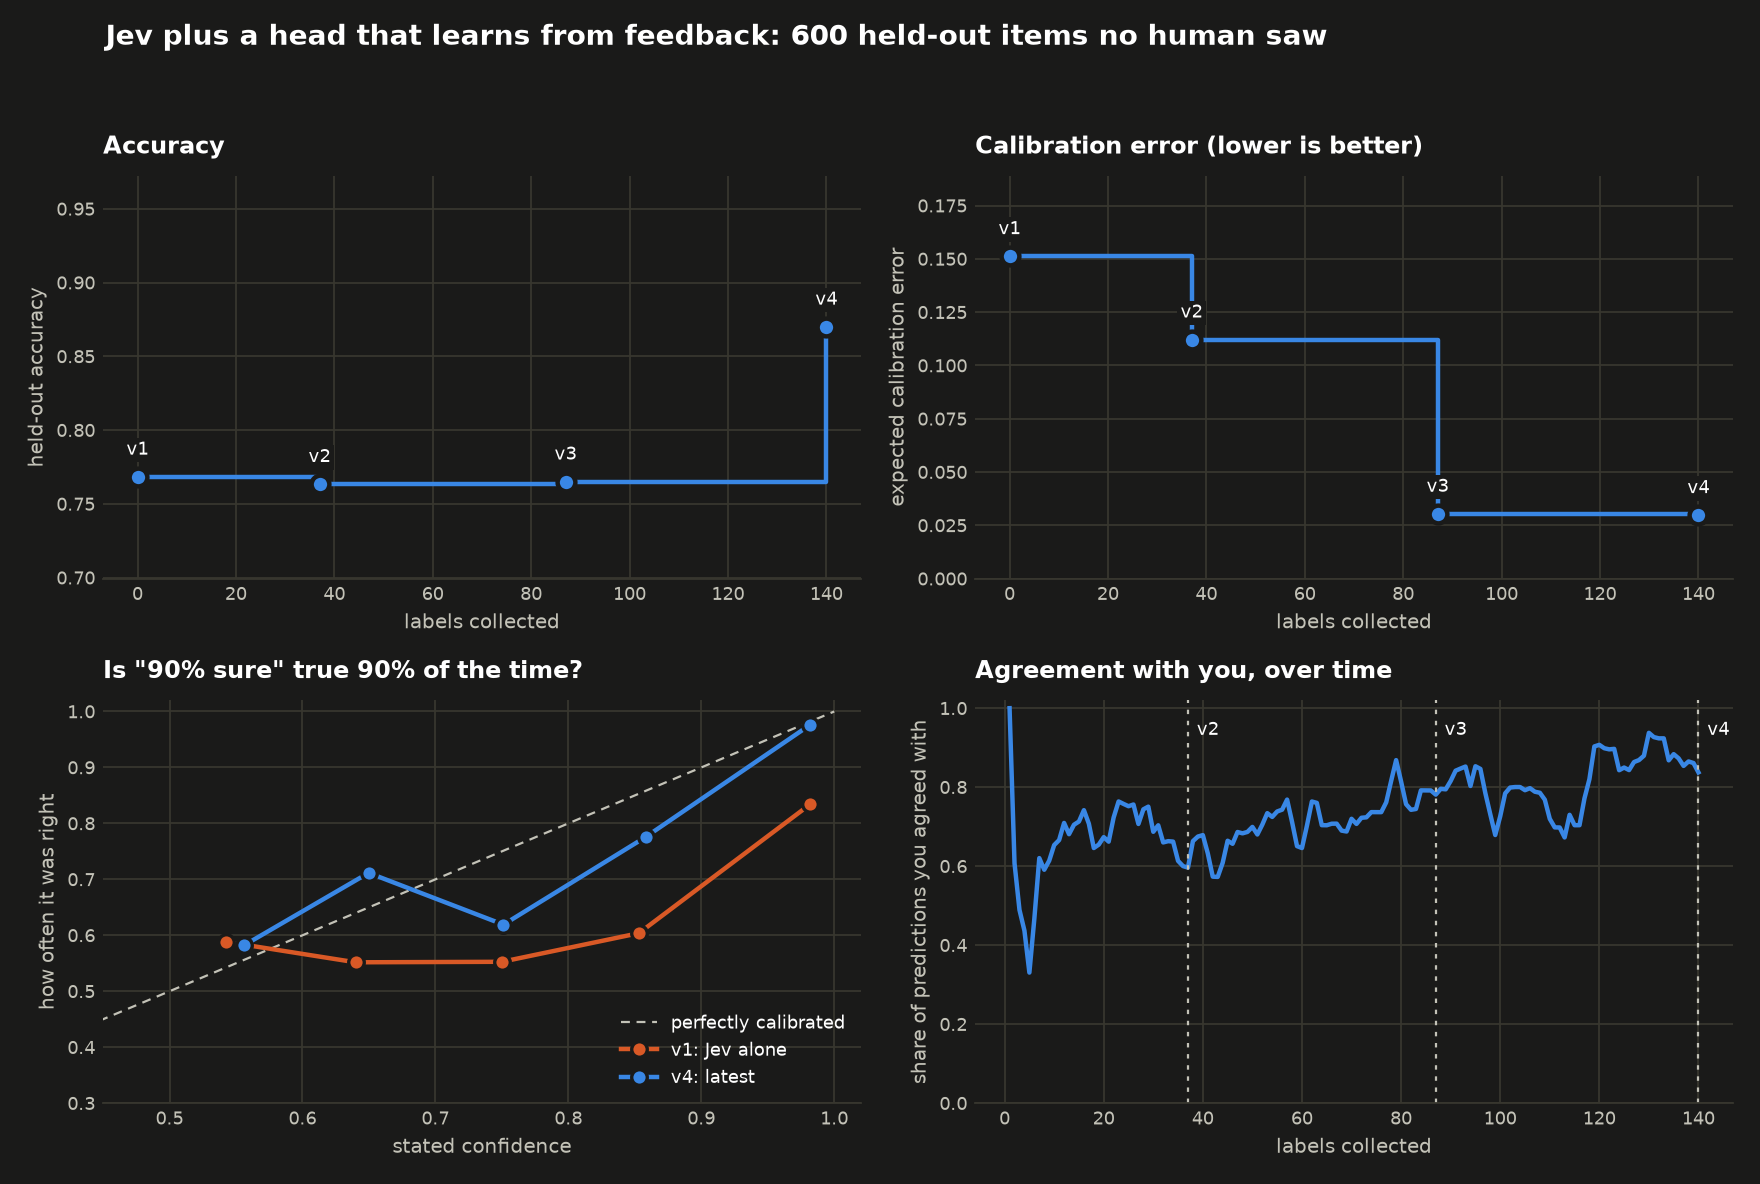
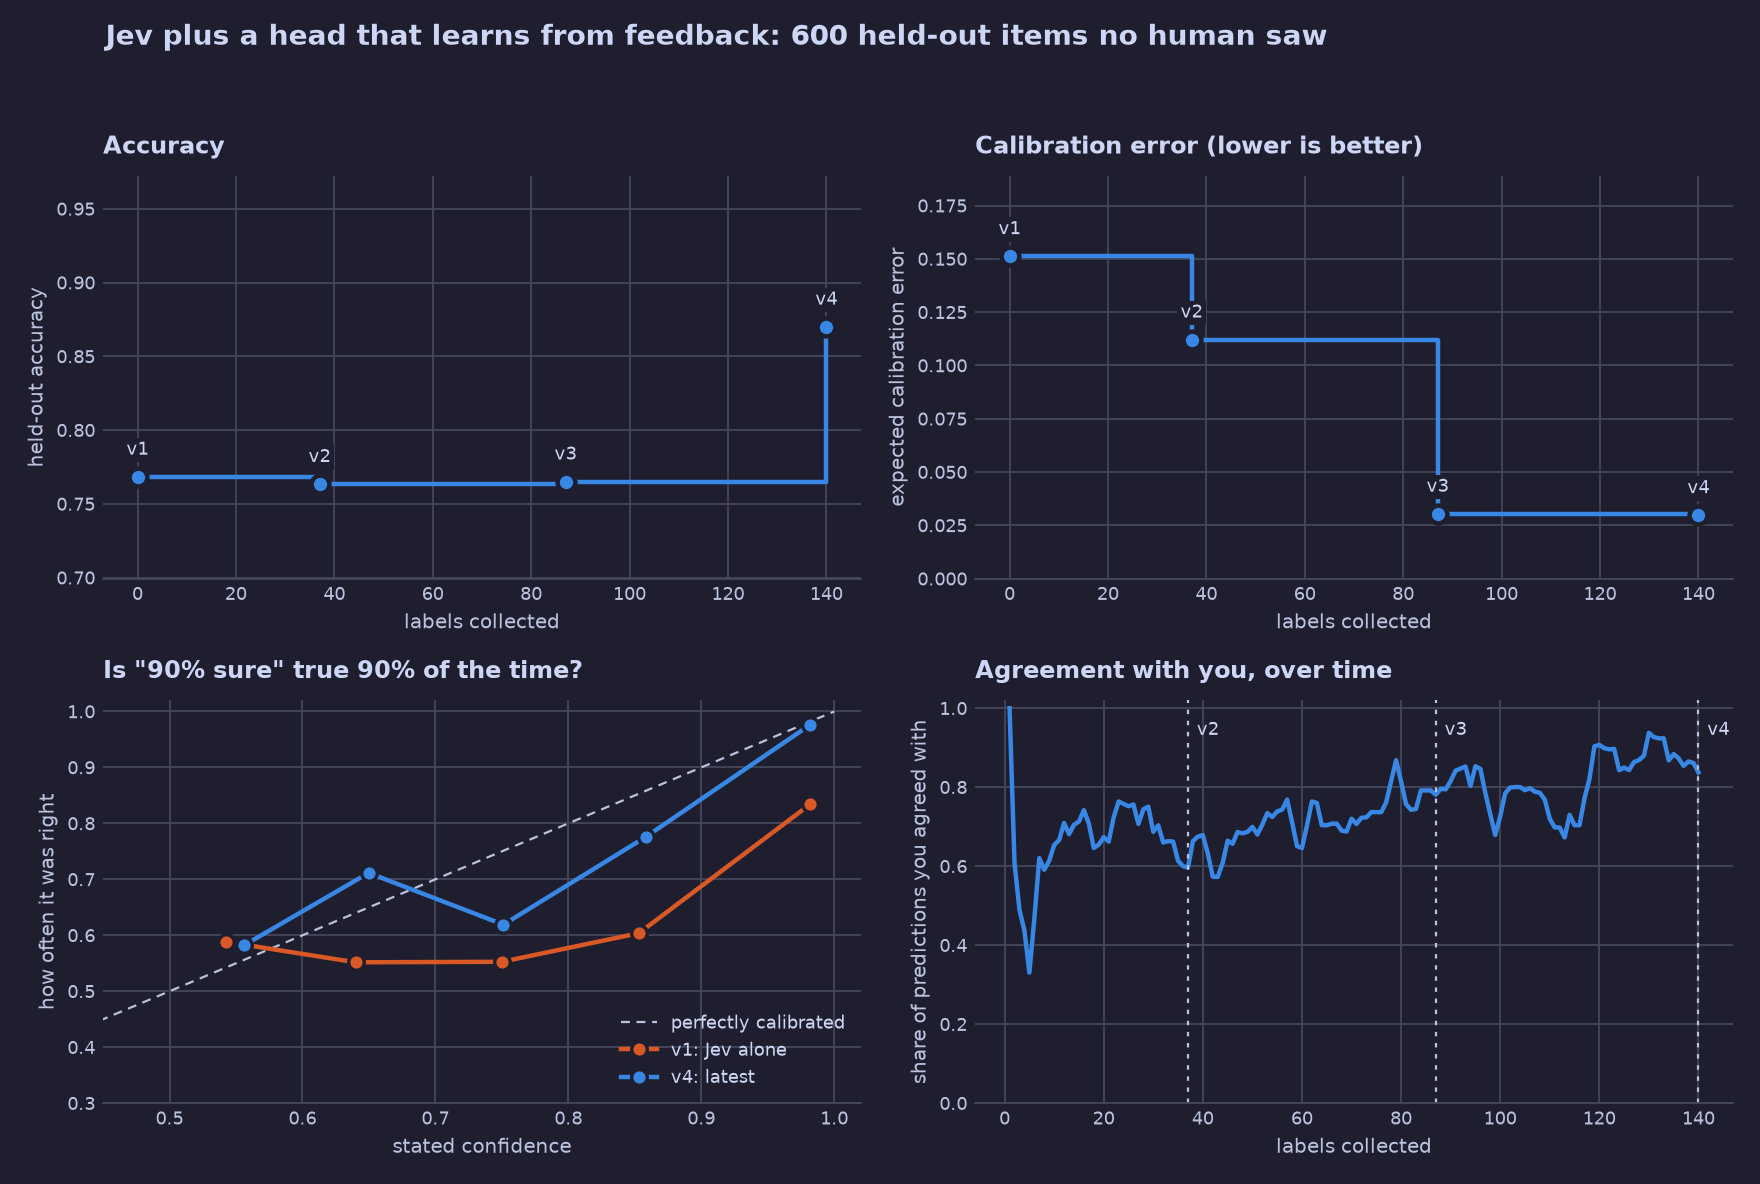
fix: one palette for the chart and the diagrams
The chart's dark surface was a warm black (#1a1a19) while the d2 diagrams use
a cool one, so the README mixed two palettes. The chart now takes its canvas
and ink from d2's own themes, read out of the rendered SVG: #FFFFFF / #0A0F25
for light and Dark Mauve's #1E1E2E / #CDD6F4 for dark.

The series colours are unchanged and were re-validated against the new
canvases; both pairs pass every check, and the light pair now clears 3:1
contrast where it previously only warned against the off-white.

A spec reads the canvas values back out of images/flywheel.svg and asserts the
themes match, so changing a diagram theme fails the suite instead of quietly
leaving the README two-toned.

diff --git a/jev_flywheel/charts.py b/jev_flywheel/charts.py
@@ -26,10 +26,14 @@ from jev_flywheel.workspace import Workspace
 class Theme(NamedTuple):
     """Surface, ink and series colours for one colour scheme.
 
-    Both schemes are *selected*, not derived: the dark series colours are the same two hues
-    re-stepped for a dark surface, and both sets were checked for colour-vision separation and
-    contrast against the surface they are drawn on. Flipping a light palette to dark by
-    inverting it is what produces unreadable charts.
+    Surfaces and ink match the d2 diagrams exactly, so the README does not mix a warm black
+    chart with cool black diagrams: these are d2's own light canvas and its Dark Mauve
+    (Catppuccin Mocha) canvas, read out of the rendered SVGs.
+
+    The series colours are *selected*, not derived: the dark pair is the same two hues
+    re-stepped for a dark surface, and both pairs were checked for colour-vision separation and
+    for contrast against the exact canvas they are drawn on. Inverting a light palette is what
+    produces unreadable dark charts.
     """
 
     surface: str
@@ -40,9 +44,10 @@ class Theme(NamedTuple):
     orange: str     # categorical slot 2: Jev's own answer, the baseline
 
 
-LIGHT = Theme(surface="#fcfcfb", ink="#0b0b0b", ink_secondary="#52514e", grid="#e6e5e1",
+# Canvas and ink are d2's, so the chart and the diagrams sit in the same palette.
+LIGHT = Theme(surface="#FFFFFF", ink="#0A0F25", ink_secondary="#676C7E", grid="#DEE1EB",
               blue="#2a78d6", orange="#eb6834")
-DARK = Theme(surface="#1a1a19", ink="#ffffff", ink_secondary="#c3c2b7", grid="#38372f",
+DARK = Theme(surface="#1E1E2E", ink="#CDD6F4", ink_secondary="#BAC2DE", grid="#45475A",
              blue="#3987e5", orange="#d95926")
 
 

diff --git a/tests/recording_test.py b/tests/recording_test.py
@@ -184,3 +184,22 @@ def test_a_caller_can_ask_for_one_scheme_only(session, fixtures, tmp_path):
     light = save_chart(replayed, SCORE, tmp_path / "solo.png", both_schemes=False)
 
     assert light.exists() and not dark_path(light).exists()
+
+
+def test_the_chart_and_the_diagrams_share_one_palette():
+    """A warm-black chart beside cool-black diagrams looks like a mistake, because it is one.
+
+    The canvases and ink here are read from d2's own themes, so this pins them together: if a
+    diagram theme changes, this fails rather than the README quietly going two-toned.
+    """
+    from pathlib import Path
+
+    from jev_flywheel.charts import DARK, LIGHT
+
+    svg = (Path(__file__).resolve().parents[1] / "images" / "flywheel.svg").read_text()
+    light_block, _, dark_block = svg.partition("prefers-color-scheme")
+
+    assert "--color-canvas-default:#FFFFFF" in light_block
+    assert LIGHT.surface == "#FFFFFF" and LIGHT.ink == "#0A0F25"
+    assert "--color-canvas-default:#1E1E2E" in dark_block
+    assert DARK.surface == "#1E1E2E" and DARK.ink == "#CDD6F4"

diff --git a/README.md b/README.md
@@ -581,9 +581,11 @@ repo needs no diagram tooling; `make diagrams` re-renders them and needs `d2`. E
 the sources set no explicit colours and let the theme choose.
 
 The results chart is matplotlib, which cannot embed a media query, so it is rendered twice and
-offered through a `<picture>` element. Its two colour schemes are *selected*, not derived: the
-dark series colours are the same two hues re-stepped for a dark surface, and both sets were
-checked for colour-vision separation and for contrast against the surface they sit on. Inverting
+offered through a `<picture>` element. Its canvases and ink are d2's own, read out of the
+rendered SVGs and pinned by a spec, so the chart and the diagrams sit in one palette rather than
+putting a warm black beside a cool one. The series colours are *selected*, not derived: the dark
+pair is the same two hues re-stepped for a dark surface, and both pairs were checked for
+colour-vision separation and for contrast against the exact canvas they are drawn on. Inverting
 a light palette is what produces unreadable dark charts.
 
 `make test` runs the specs (458, none needing a network or a key). The procedure's specs are
